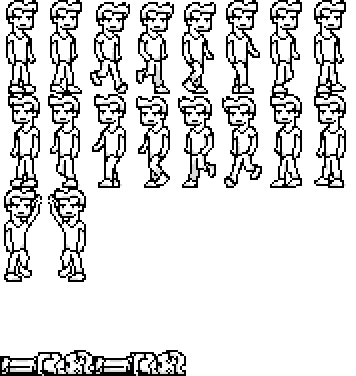
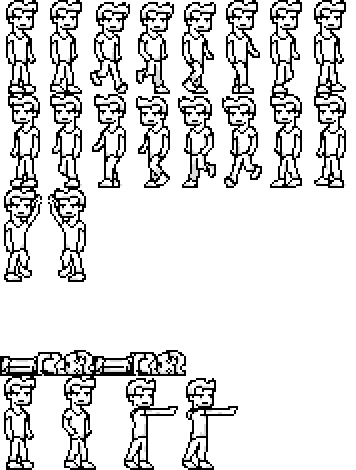
Code and Sprite change to allow punching animation

Changed region(s): [[0.0, 0.0, 0.9888, 1.0]]

diff --git a/Digit Dojo/Digit Dojo v.02.html b/Digit Dojo/Digit Dojo v.02.html
@@ -109,20 +109,31 @@ player.jumpspeed = Math.floor(player.jumpspeed - player.jumpspeed*0.01)
 		};
 		
 	
-
+console.log(Yframepos);
 	
 //keys
-if (keys[38] || keys[32] || keys[87]){
-	//space, w, up arrow
+if (keys[32] && playerdead == false && player.jumpspeed < 0.1) {
+	//space
+	Yframepos = 4*frameheight;
+	
+	Xframepos = 0;
+}
+
+
+if (keys[38] || keys[87]){
+	//w, up arrow
 	
 	if(player.y >= 400 && playerdead == false){
 		player.jumpspeed = 30;
-				if(player.jumpspeed > 0.1){
+		if(Yframepos == 0){
 			Yframepos = 2*frameheight;
 			Xframepos = 0;
-			}
+			} else if (Yframepos == frameheight){
+			Yframepos = 2*frameheight;
+			Xframepos = framewidth;
 		}
-	};
+	}
+};
 	
 
 
@@ -176,8 +187,8 @@ if (keys[38] || keys[32] || keys[87]){
 	}
 	else if(player.y >= 400){
 		Xframepos = 0;
-		
 	};
+
 		
 //declare death state
 	if (keys[40]) {
